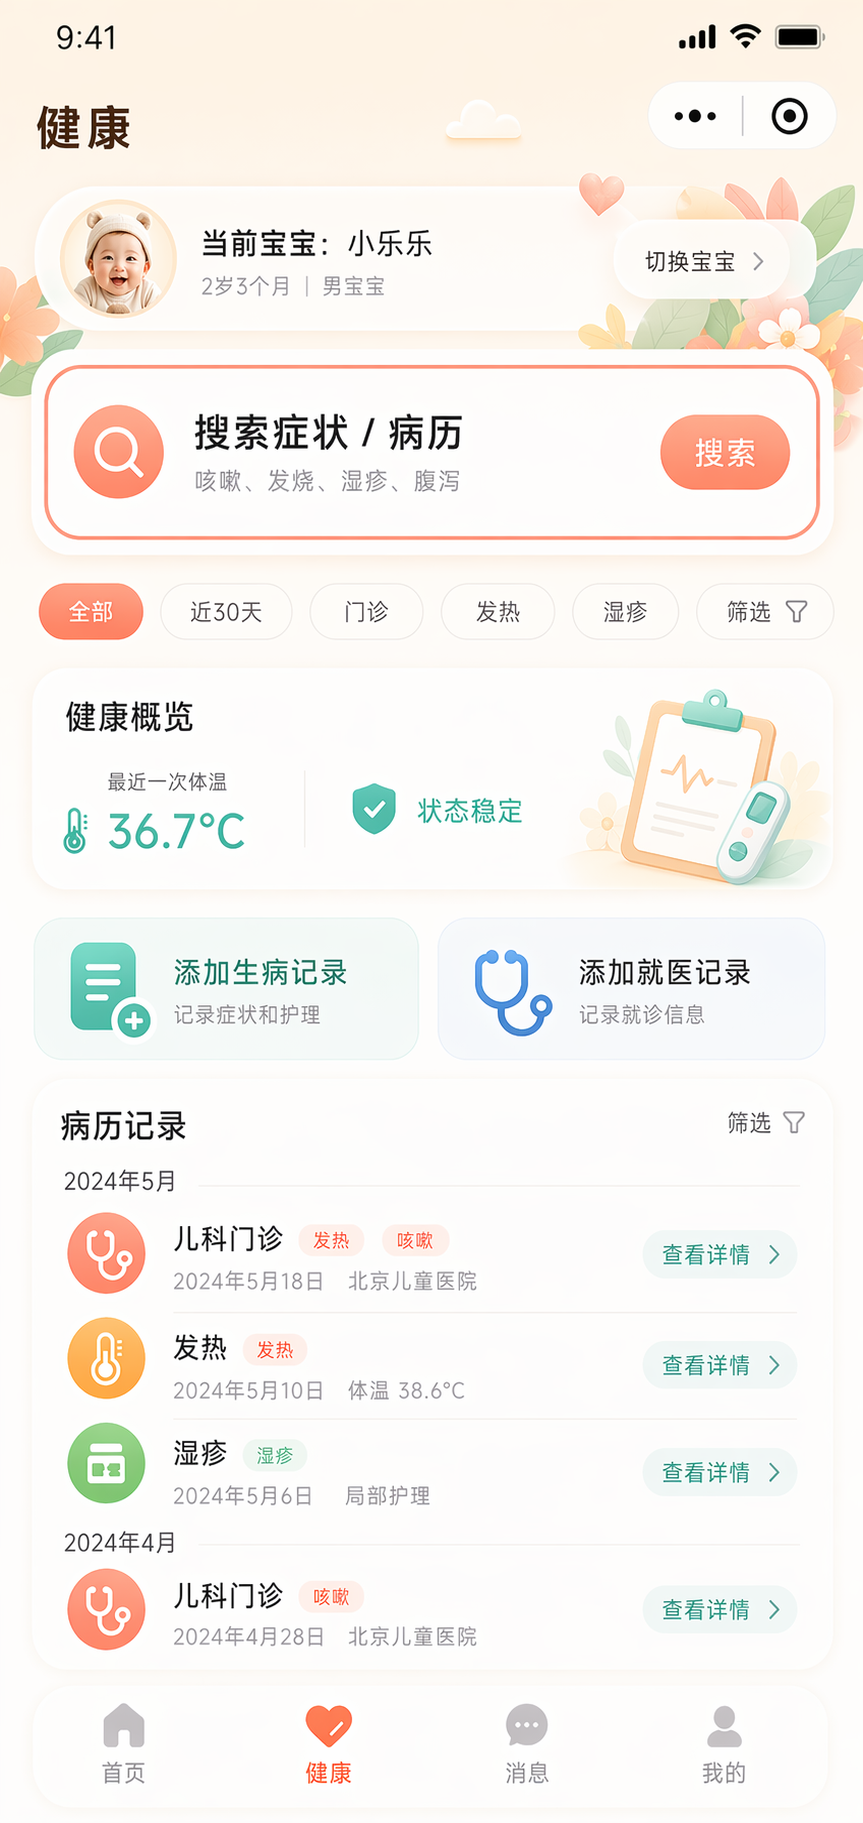
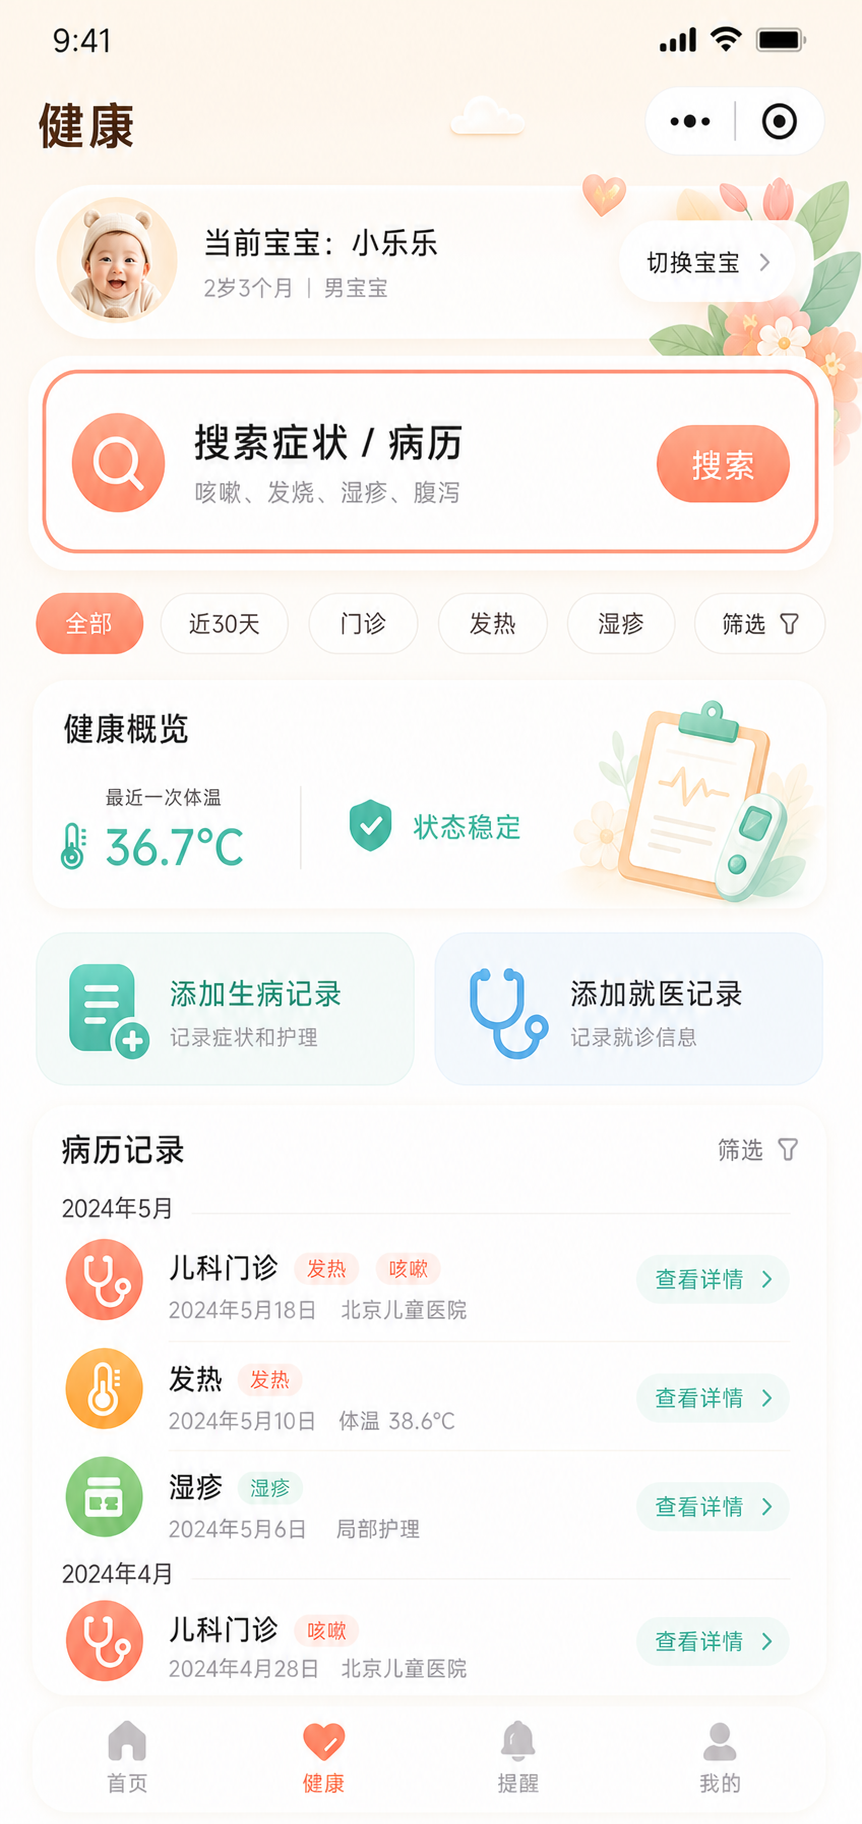
feat: 新增 UI 设计图

diff --git a/src/assets/ui-page-prompts.md b/src/assets/ui-page-prompts.md
@@ -1,0 +1,355 @@
+# 宝宝健康档案缺失页面与 UI 提示词
+
+本文档基于当前 `README.md`、现有 4 个 tab 设计稿，以及当前项目已落地的业务范围整理。
+
+目标：
+
+- 列出每个 tab 下仍缺失的页面
+- 给出每个页面可直接继续生成设计稿的 UI 提示词
+- 保持整套小程序视觉统一
+
+统一视觉约束：
+
+- 风格：亲子温馨、可信赖、轻医疗感，不做冷冰冰医院风
+- 气质：真实产品感，不要明显 AI 感，不要过度梦幻插画
+- 色彩：以暖白、米色、浅杏色、淡橙、浅青绿、浅蓝为主
+- 渐变：少用，只在局部氛围或按钮高光轻微使用，避免大面积强渐变
+- 组件：卡片化、圆角、轻阴影、留白充足
+- 字体层级：清晰克制，不做夸张大标题堆叠
+- 图标：简洁、统一线性或轻拟物风格
+- 页面结构：优先真实小程序信息架构，避免“概念海报感”
+- 底部 tabbar：与现有首页、健康页、提醒页、我的页保持一致，固定为“首页 / 健康 / 提醒 / 我的”
+- tabbar 当前页高亮：详情页虽然是二级页，但设计稿中底部 tabbar 仍需高亮其所属模块，对应图标与文案高亮，其他 tab 保持未选中状态
+
+---
+
+## 首页 Tab 缺失页面
+
+### 1. 病历列表页
+
+用途：
+
+- 承接首页“最近记录 -> 查看全部”
+- 展示当前宝宝全部病历和健康记录
+
+UI 提示词：
+
+```text
+为“宝宝健康档案”小程序设计一张病历列表页 UI。页面属于首页下钻页，延续现有温暖亲子风格，低 AI 感，少用渐变，整体像真实可上线的小程序。页面顶部显示当前宝宝信息和切换入口，中间是病历筛选区，支持按时间、症状、记录类型筛选，主体为病历列表卡片。每条记录展示日期、医院、症状标签、记录类型、简短摘要，并有“查看详情”入口。底部延续统一 tabbar 风格，但当前页面是二级页，不强调 tab 切换。配色以暖白、米色、浅橙、浅青绿为主，卡片圆角、轻阴影、留白充足，避免过度插画和强渐变。
+```
+
+### 2. 病历详情页
+
+用途：
+
+- 承接首页、健康页中单条病历点击后的详情查看
+
+UI 提示词：
+
+```text
+为“宝宝健康档案”小程序设计一张病历详情页 UI。页面风格与现有首页、健康页一致，亲子温暖、真实产品感、低 AI 感、少渐变。页面展示当前宝宝名称、就诊日期、医院、科室、主诉、诊断、处理建议、用药信息、备注等完整病历内容。结构要清晰，采用分组卡片展示，支持附件占位区和“再次记录”“复制为新记录”这类次级操作入口。视觉以暖白底、浅灰分隔、淡橙和浅青绿点缀，避免大面积夸张插画，更像真实医疗记录详情页。
+```
+
+### 3. 新增生病记录页
+
+用途：
+
+- 承接首页快捷入口“添加生病记录”
+- 区分于正式就医记录，更偏家庭观察记录
+
+UI 提示词：
+
+```text
+为“宝宝健康档案”小程序设计一张“新增生病记录”页面 UI。页面需要延续现有小程序整体风格：温暖亲子、克制、低 AI 感、少渐变。页面是表单页，包含当前宝宝信息、症状输入、开始时间、体温、精神状态、饮食睡眠、护理措施、备注等字段。可加入热门症状快捷标签，如发热、咳嗽、湿疹、腹泻。底部有主操作按钮“保存记录”。视觉上用浅色卡片分组表单，减少装饰，突出可填写性和真实产品感。
+```
+
+### 4. 成长记录列表页
+
+用途：
+
+- 承接首页“成长记录”入口
+- 承接首页最近记录中的成长相关数据
+
+UI 提示词：
+
+```text
+为“宝宝健康档案”小程序设计一张成长记录列表页 UI。风格需和现有首页保持统一：温暖、真实、低 AI 感、少渐变。页面展示当前宝宝的身高、体重、疫苗接种、发育节点等成长相关记录，顶部有宝宝信息和筛选标签，中间以时间线或分组卡片形式展示成长记录。页面可包含一张简洁的成长趋势摘要卡，但不要做复杂图表大屏感。整体采用暖白底色、浅蓝和浅绿色作为成长类点缀。
+```
+
+---
+
+## 健康 Tab 缺失页面
+
+### 1. 搜索结果页
+
+用途：
+
+- 承接健康页和首页的“搜索症状 / 病历”
+
+UI 提示词：
+
+```text
+为“宝宝健康档案”小程序设计一张“搜索症状 / 病历结果页”UI。页面属于健康 tab 下钻页，延续现有暖白、浅橙、浅青绿的统一风格，低 AI 感，少渐变。页面顶部为搜索框和当前宝宝信息，支持按症状、时间、记录类型筛选。主体展示搜索结果列表，结果可以混合“病历记录”“生病记录”“疫苗记录”等类型，每条结果高亮匹配关键词并展示摘要、日期和来源。页面应强调信息检索效率和真实可用性，不做夸张装饰。
+```
+
+### 2. 新增就医记录页
+
+用途：
+
+- 承接健康页“添加就医记录”
+- 与现有 `medical-record` 主链路强相关
+
+UI 提示词：
+
+```text
+为“宝宝健康档案”小程序设计一张“新增就医记录”表单页 UI。页面风格与现有健康页一致，低 AI 感、少渐变、真实产品感。顶部显示当前宝宝，表单字段包括就诊日期、医院名称、科室、医生、主诉、诊断、治疗方案、用药信息、备注等。页面支持附件上传占位区和症状标签辅助录入。底部有固定主按钮“保存就医记录”。整体采用浅色分组卡片和清晰表单层级，减少多余装饰。
+```
+
+### 3. 宝宝切换页
+
+用途：
+
+- 承接健康页右上角“切换宝宝”
+
+UI 提示词：
+
+```text
+为“宝宝健康档案”小程序设计一张“切换宝宝”页面 UI。页面风格要与现有健康页和首页统一：温暖、真实、低 AI 感、少渐变。页面展示当前家庭下的宝宝列表，每个宝宝卡片显示头像、姓名、年龄、当前状态摘要，当前选中宝宝有明显但克制的高亮。顶部可以有搜索或家庭信息简述，底部保留“新增宝宝”次级入口。页面重点是选择效率和多宝宝场景下的清晰度，不要做过度花哨视觉。
+```
+
+### 4. 症状筛选详情页
+
+用途：
+
+- 承接健康页中的症状标签和筛选器
+
+UI 提示词：
+
+```text
+为“宝宝健康档案”小程序设计一张“症状筛选”页面 UI。页面属于健康模块，风格统一为暖白、浅橙、浅青绿，低 AI 感、少渐变。页面包含常见症状标签、时间范围、记录类型、是否仅看当前宝宝、医院/科室等筛选条件，底部有“重置”和“查看结果”按钮。界面要清爽克制，像真实产品筛选页，而不是营销海报。
+```
+
+---
+
+## 提醒 Tab 缺失页面
+
+### 1. 提醒详情页
+
+用途：
+
+- 承接提醒页列表中的“查看详情”“去处理”
+
+UI 提示词：
+
+```text
+为“宝宝健康档案”小程序设计一张提醒详情页 UI。页面延续现有提醒页风格，整体温暖、简洁、低 AI 感、少渐变。页面展示提醒标题、提醒类型、对应宝宝、时间、备注、关联记录、处理状态等，并提供“已完成”“延后30分钟”“去记录”操作按钮。根据提醒类型可切换展示不同字段，但整体界面保持统一卡片布局和真实小程序产品感。
+```
+
+### 2. 新建提醒页
+
+用途：
+
+- 承接提醒中心后续真实业务
+
+UI 提示词：
+
+```text
+为“宝宝健康档案”小程序设计一张“新建提醒”页面 UI。页面风格与提醒页一致，亲子温暖、低 AI 感、少渐变。表单包含提醒类型、当前宝宝、提醒时间、重复方式、备注、关联病历等字段。提醒类型至少包含用药提醒、儿保提醒、疫苗提醒、复诊提醒。底部有主按钮“保存提醒”。整体使用真实表单布局，避免夸张插画和视觉噪音。
+```
+
+### 3. 用药提醒详情页
+
+用途：
+
+- 提醒体系中的高频细分场景
+
+UI 提示词：
+
+```text
+为“宝宝健康档案”小程序设计一张“用药提醒详情页”UI。页面属于提醒模块，风格统一为暖白和浅橙点缀，低 AI 感，少渐变。页面展示药名、剂量、频次、服用时间、服用方式、注意事项、关联症状或病历，并提供“已服用”“延后提醒”“记录反应”操作。整体强调实用性、可读性和家长快速处理体验。
+```
+
+### 4. 疫苗提醒详情页
+
+用途：
+
+- 提醒页中的疫苗提醒下钻页
+
+UI 提示词：
+
+```text
+为“宝宝健康档案”小程序设计一张“疫苗提醒详情页”UI。页面风格与整体小程序一致，真实产品感、低 AI 感、少渐变。内容包括疫苗名称、第几针、建议接种时间、接种地点、注意事项、历史接种状态等，底部提供“已完成”“延后”“查看关联记录”按钮。页面要温和可信，不要做医院系统式冷硬风格。
+```
+
+### 5. 儿保提醒详情页
+
+用途：
+
+- 提醒页中的儿保提醒下钻页
+
+UI 提示词：
+
+```text
+为“宝宝健康档案”小程序设计一张“儿保提醒详情页”UI。页面延续提醒页的暖白、浅色卡片风格，低 AI 感、少渐变。页面展示体检项目、预约时间、地点、准备事项、备注等内容，并支持“已完成”“改期”“查看相关记录”。界面结构清楚、留白足够，强调真实可操作性。
+```
+
+### 6. 复诊提醒详情页
+
+用途：
+
+- 提醒页中的复诊提醒下钻页
+
+UI 提示词：
+
+```text
+为“宝宝健康档案”小程序设计一张“复诊提醒详情页”UI。页面风格保持整套小程序一致：亲子温暖、轻医疗感、低 AI 感、少渐变。展示复诊时间、医院、科室、关联病历摘要、复诊说明、备注，并提供“去记录”“已完成”“延后提醒”按钮。页面要有清晰的信息层级和强实用性。
+```
+
+---
+
+## 我的 Tab 缺失页面
+
+### 1. 用户初始化页
+
+用途：
+
+- 承接 README 里的 `user-init`
+
+UI 提示词：
+
+```text
+为“宝宝健康档案”小程序设计一张“用户初始化”页面 UI。页面属于“我的”模块下钻页，风格与现有 profile 页统一，温暖、克制、低 AI 感、少渐变。页面主要用于初始化开发用户，字段较少，包含昵称等信息，并显示当前开发环境说明。界面简洁、表单清晰，突出初始化动作，不做花哨装饰。
+```
+
+### 2. 家庭管理页
+
+用途：
+
+- 承接“我的”中的家庭管理入口
+- 对应 README 中的 `family` 核心能力
+
+UI 提示词：
+
+```text
+为“宝宝健康档案”小程序设计一张“家庭管理”页面 UI。页面风格延续 profile 页，低 AI 感、少渐变、温暖亲子感。页面展示当前家庭、家庭列表、切换家庭入口和“新建家庭”按钮。卡片中可展示家庭名称、成员数量、当前状态。页面结构应简洁真实，突出家庭上下文管理。
+```
+
+### 3. 新宝宝创建页
+
+用途：
+
+- 承接“我的”中的宝宝管理入口
+- 对应 README 中的 `baby` 核心能力
+
+UI 提示词：
+
+```text
+为“宝宝健康档案”小程序设计一张“新增宝宝档案”页面 UI。页面风格与整套小程序一致：暖白底、浅橙与浅绿点缀、低 AI 感、少渐变。表单包含宝宝姓名、昵称、生日、性别、所属家庭等字段，底部为“保存宝宝档案”按钮。页面要像真实可填写的小程序表单页，留白充分，层级清晰。
+```
+
+### 4. 宝宝管理页
+
+用途：
+
+- 承接“我的”中的宝宝管理入口
+- 展示宝宝列表与当前宝宝状态
+
+UI 提示词：
+
+```text
+为“宝宝健康档案”小程序设计一张“宝宝管理”页面 UI。页面延续 profile 页的风格，低 AI 感、少渐变。页面展示当前家庭下的宝宝列表，每个宝宝卡片有头像、姓名、年龄、当前状态和切换按钮，并带“新增宝宝”入口。页面强调管理和切换效率，而不是装饰感。
+```
+
+### 5. 病历管理页
+
+用途：
+
+- 承接“我的”中的病历管理入口
+
+UI 提示词：
+
+```text
+为“宝宝健康档案”小程序设计一张“病历管理”页面 UI。页面属于“我的”模块的管理页，延续统一的暖白、浅橙、浅青绿配色，低 AI 感、少渐变。页面可展示病历统计摘要、按宝宝分组的病历入口、快捷进入病历列表和新增病历。整体应偏管理后台式的轻量产品感，但仍保持亲子场景温和气质。
+```
+
+### 6. 开发设置页
+
+用途：
+
+- 承接“我的”中的开发设置入口
+
+UI 提示词：
+
+```text
+为“宝宝健康档案”小程序设计一张“开发设置”页面 UI。页面风格与 profile 页一致，真实克制、低 AI 感、少渐变。页面展示本地联调地址、当前环境、缓存状态、调试说明等内容。界面以列表设置项和状态卡片为主，避免过度设计，更像真实开发态设置页。
+```
+
+### 7. 通知设置页
+
+用途：
+
+- 承接“我的”中的通知入口
+- 与提醒体系联动
+
+UI 提示词：
+
+```text
+为“宝宝健康档案”小程序设计一张“提醒通知设置”页面 UI。页面风格与整套小程序一致，温和、低 AI 感、少渐变。页面展示用药提醒、儿保提醒、疫苗提醒、复诊提醒等通知开关，以及提醒方式、提前时间等设置项。整体采用开关列表和卡片分组，视觉清爽、信息真实。
+```
+
+### 8. 关于应用页
+
+用途：
+
+- 承接“关于应用”
+
+UI 提示词：
+
+```text
+为“宝宝健康档案”小程序设计一张“关于应用”页面 UI。页面风格与 profile 页统一，温暖、简洁、低 AI 感、少渐变。页面包含应用简介、版本号、品牌说明、免责声明、联系方式等信息。界面应克制清爽，以文字信息和轻量图标为主，不要做重插画。
+```
+
+### 9. 帮助与反馈页
+
+用途：
+
+- 承接“帮助与反馈”
+
+UI 提示词：
+
+```text
+为“宝宝健康档案”小程序设计一张“帮助与反馈”页面 UI。页面保持统一风格：暖白、轻阴影、低 AI 感、少渐变。内容包括常见问题、反馈入口、联系方式、问题分类等。页面要更像真实客服帮助中心，而不是营销页。
+```
+
+---
+
+## 建议优先补齐顺序
+
+第一优先级：
+
+1. 病历列表页
+2. 病历详情页
+3. 新增就医记录页
+4. 新增生病记录页
+5. 搜索结果页
+
+第二优先级：
+
+1. 宝宝切换页
+2. 新宝宝创建页
+3. 宝宝管理页
+4. 提醒详情页
+5. 新建提醒页
+
+第三优先级：
+
+1. 成长记录列表页
+2. 用药提醒详情页
+3. 疫苗提醒详情页
+4. 儿保提醒详情页
+5. 复诊提醒详情页
+6. 家庭管理页
+7. 开发设置页
+8. 通知设置页
+9. 关于应用页
+10. 帮助与反馈页
